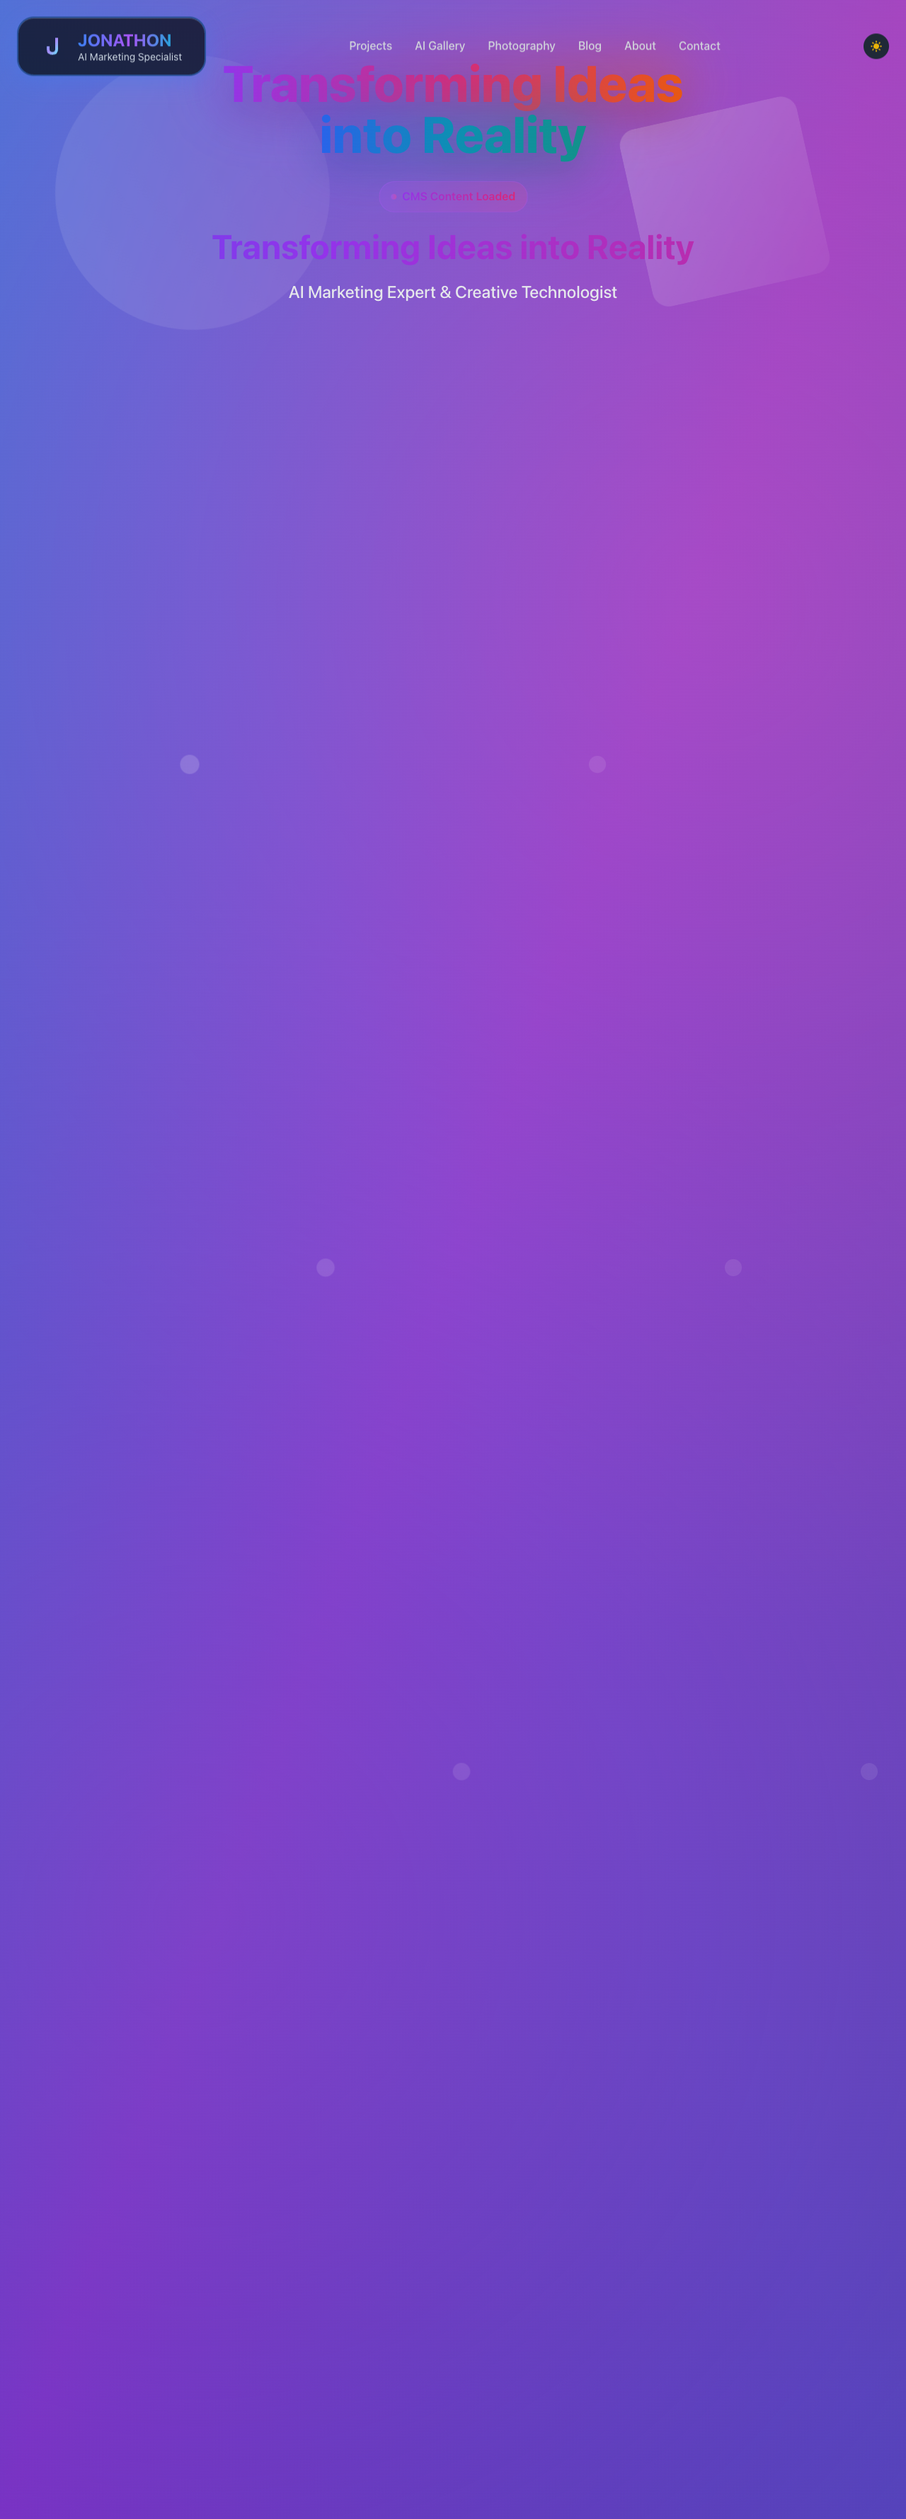
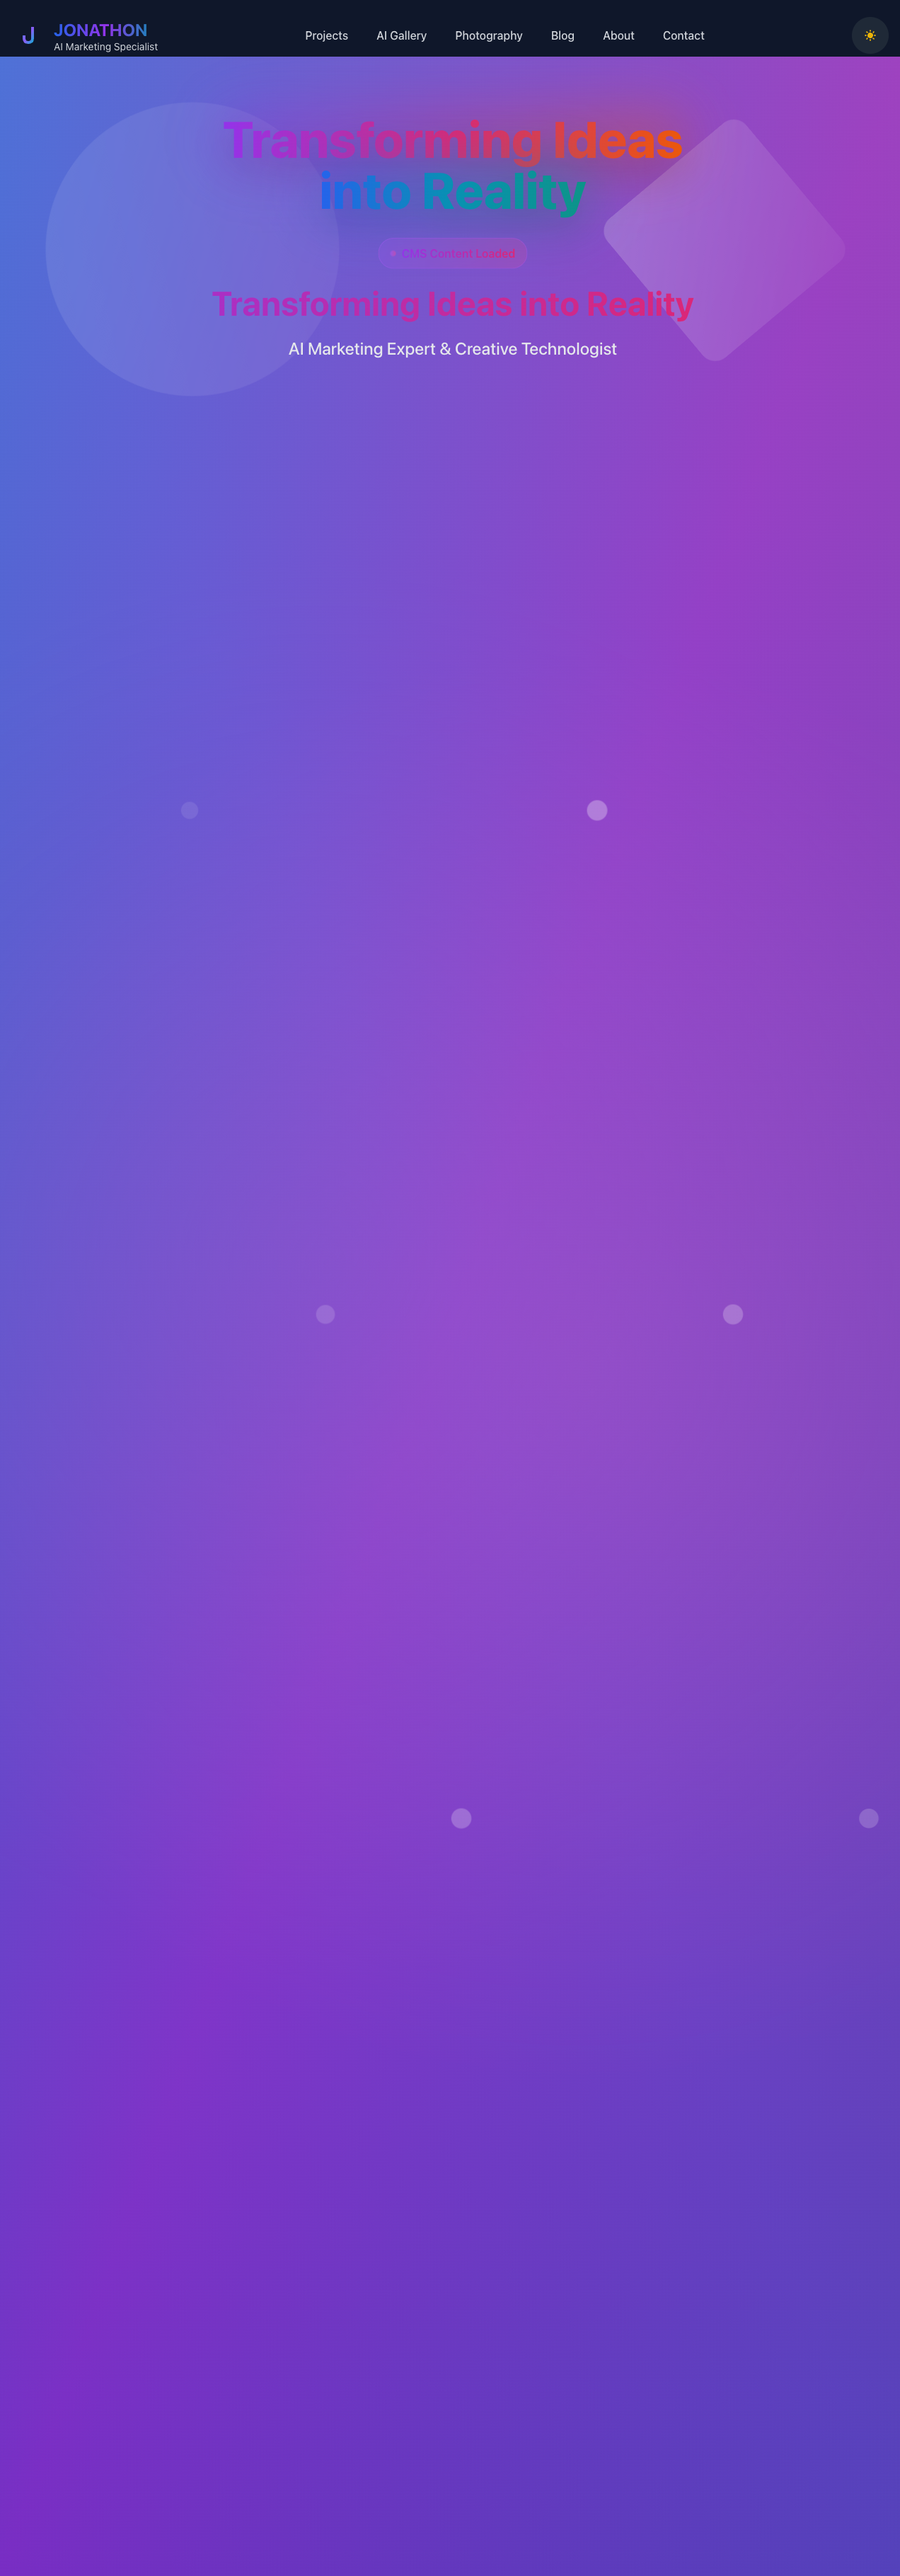
Fix About page hero text readability
- Replaced multi-colored gradient text with clean white text
- Removed confusing purple/pink/orange/blue gradient combinations
- Improved contrast against purple background
- Added subtle backdrop blur to subtitle for better readability
- Maintained professional appearance while fixing visibility issues

The hero section now has:
- Clear white text that stands out
- Single cohesive design instead of rainbow effects
- Better accessibility and readability
- Professional presentation

🤖 Generated with [Claude Code](https://claude.ai/code)

diff --git a/src/app/about/AboutPageClient.tsx b/src/app/about/AboutPageClient.tsx
@@ -109,18 +109,11 @@ export default function AboutPageClient({ aboutData }: AboutPageClientProps) {
               animate={{ opacity: 1, y: 0 }}
               transition={{ duration: 0.8, delay: 0.2 }}
             >
-              <span className="relative inline-block">
-                <span className="absolute inset-0 bg-gradient-to-r from-purple-600 via-pink-600 to-orange-600 blur-2xl opacity-40" />
-                <span className="relative bg-gradient-to-r from-purple-600 via-pink-600 to-orange-600 bg-clip-text text-transparent font-extrabold drop-shadow-2xl">
-                  Transforming Ideas
-                </span>
+              <span className="block text-white font-extrabold mb-2">
+                Transforming Ideas
               </span>
-              <br />
-              <span className="relative inline-block">
-                <span className="absolute inset-0 bg-gradient-to-r from-blue-600 via-cyan-600 to-teal-600 blur-2xl opacity-40" />
-                <span className="relative bg-gradient-to-r from-blue-600 via-cyan-600 to-teal-600 bg-clip-text text-transparent font-extrabold drop-shadow-2xl">
-                  into Reality
-                </span>
+              <span className="block text-white font-extrabold">
+                into Reality
               </span>
             </motion.h1>
 
@@ -137,13 +130,11 @@ export default function AboutPageClient({ aboutData }: AboutPageClientProps) {
               </span>
             </motion.div>
 
-            <h2 className="text-4xl md:text-5xl font-bold mb-6">
-              <span className="bg-gradient-to-r from-blue-600 via-purple-600 to-pink-600 bg-clip-text text-transparent animate-gradient bg-300%">
-                {data.heroTitle || data.title}
-              </span>
+            <h2 className="text-4xl md:text-5xl font-bold mb-6 text-white">
+              {data.heroTitle || data.title}
             </h2>
             
-            <p className="text-xl md:text-2xl text-gray-700 dark:text-gray-200 max-w-4xl mx-auto leading-relaxed font-medium">
+            <p className="text-xl md:text-2xl text-white/90 max-w-4xl mx-auto leading-relaxed font-medium backdrop-blur-sm bg-white/5 rounded-2xl px-8 py-4">
               {data.heroSubtitle}
             </p>
           </motion.div>
